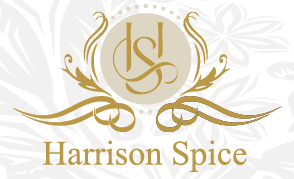
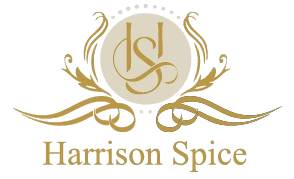
add change

diff --git a/src/pages/HarrisonSpice.jsx b/src/pages/HarrisonSpice.jsx
@@ -38,7 +38,7 @@ const LOCATIONS_DATA = [
   {
     id: 3,
     name: 'Leicester',
-    description: 'Contemporary Indian cuisine in vibrant Leicester',
+    description: 'Contemporary Indian cuisine in vibrant Leicester City Center context.',
     locationName: 'Leicester City Centre',
     image: '/leicester.png',
     phone: '+44 116 XXXX XXXX',
@@ -131,7 +131,7 @@ export default function HarrisonsSpice() {
         {/* Logo Branding */}
         <div className="mb-8 md:mb-12">
           <img 
-            src="https://hebbkx1anhila5yf.public.blob.vercel-storage.com/harrison%20spice%20logo-vr0wOqMnWBwxqWiKZopD1yXO0LsK5o.png" 
+            src="/harrison.png" 
             alt="Harrison's Spice Logo" 
             className="h-24 md:h-32 w-auto drop-shadow-2xl mx-auto"
           />
@@ -149,16 +149,13 @@ export default function HarrisonsSpice() {
 
         {/* Social Connection Badges */}
         <div className="flex items-center justify-center gap-4 md:gap-6 mb-12 px-4">
-          <a href="https://instagram.com/harrisonspice" target="_blank" rel="noopener noreferrer" aria-label="Instagram" className="p-3 md:p-4 rounded-full border border-white/10 bg-white/5 hover:bg-white/20 transition-all">
+          <a href="https://www.instagram.com/harrisonspice.official?igsh=dTA0eTBmdmZ2bDlu&utm_source=qr" target="_blank" rel="noopener noreferrer" aria-label="Instagram" className="p-3 md:p-4 rounded-full border border-white/10 bg-white/5 hover:bg-white/20 transition-all">
             <FaInstagram className="w-5 h-5 text-white" />
           </a>
-          <a href="https://tiktok.com/@harrisonspice" target="_blank" rel="noopener noreferrer" aria-label="TikTok" className="p-3 md:p-4 rounded-full border border-white/10 bg-white/5 hover:bg-white/20 transition-all">
+          <a href="https://www.tiktok.com/@harrisonspiceofficial?_r=1&_t=ZN-93Ql2Nmc3L4" target="_blank" rel="noopener noreferrer" aria-label="TikTok" className="p-3 md:p-4 rounded-full border border-white/10 bg-white/5 hover:bg-white/20 transition-all">
             <FaTiktok className="w-5 h-5 text-white" />
           </a>
-          <a href="https://facebook.com/harrisonspice" target="_blank" rel="noopener noreferrer" aria-label="Facebook" className="p-3 md:p-4 rounded-full border border-white/10 bg-white/5 hover:bg-white/20 transition-all">
-            <FaFacebookF className="w-5 h-5 text-white" />
-          </a>
-          <a href="https://wa.me/441164000000" target="_blank" rel="noopener noreferrer" aria-label="WhatsApp" className="p-3 md:p-4 rounded-full border border-white/10 bg-white/5 hover:bg-white/20 transition-all">
+          <a href="https://wa.me/447368384136" target="_blank" rel="noopener noreferrer" aria-label="WhatsApp" className="p-3 md:p-4 rounded-full border border-white/10 bg-white/5 hover:bg-white/20 transition-all">
             <FaWhatsapp className="w-5 h-5 text-white" />
           </a>
         </div>
@@ -175,7 +172,7 @@ export default function HarrisonsSpice() {
               <div 
                 ref={scrollContainerRef}
                 onScroll={handleScroll}
-                className="flex overflow-x-auto scroll-smooth gap-6 pb-4 no-scrollbar snap-x snap-mandatory" 
+                className="flex overflow-x-auto scroll-smooth gap-6 pb-4 no-scrollbar snap-x snap-mandatory items-stretch" 
                 style={{ scrollBehavior: 'smooth', WebkitOverflowScrolling: 'touch' }}
               >
                 {LOCATIONS_DATA.map((location, index) => (
@@ -184,10 +181,10 @@ export default function HarrisonsSpice() {
                     ref={(el) => {
                       cardRefs.current[index] = el;
                     }}
-                    className="flex-shrink-0 w-full sm:w-96 md:w-[400px] rounded-2xl overflow-hidden bg-[#242424] border border-[#3a3a3a] transition-all duration-300 cursor-pointer group shadow-lg snap-center"
+                    className="flex-shrink-0 w-full sm:w-96 md:w-[400px] rounded-2xl overflow-hidden bg-[#242424] border border-[#3a3a3a] transition-all duration-300 cursor-pointer group shadow-lg snap-center flex flex-col"
                   >
                     {/* Visual Media Section */}
-                    <div className="relative h-48 md:h-56 overflow-hidden p-3 pb-0">
+                    <div className="relative h-48 md:h-56 overflow-hidden p-3 pb-0 flex-shrink-0">
                       <img 
                         alt={location.name} 
                         loading="lazy" 
@@ -198,29 +195,31 @@ export default function HarrisonsSpice() {
                     </div>
 
                     {/* Metadata Information Blocks */}
-                    <div className="p-5 md:p-6">
+                    <div className="p-5 md:p-6 flex flex-col flex-grow">
                       <h3 className="text-lg md:text-xl font-bold text-[#FFD700] mb-2">{location.name}</h3>
                       <p className="text-white/80 text-sm md:text-base mb-4 line-clamp-2">{location.description}</p>
                       
                       <div className="space-y-2.5 mb-5 text-white/90">
                         <div className="flex items-center gap-2.5">
-                          <svg xmlns="http://www.w3.org/2000/svg" width="16" height="16" viewBox="0 0 24 24" fill="none" stroke="currentColor" stroke-width="2" className="text-[#FFD700] flex-shrink-0"><path d="M20 10c0 4.993-5.539 10.193-7.399 11.799a1 1 0 0 1-1.202 0C9.539 20.193 4 14.993 4 10a8 8 0 0 1 16 0"></path><circle cx="12" cy="10" r="3"></circle></svg>
+                          <svg xmlns="http://www.w3.org/2000/svg" width="16" height="16" viewBox="0 0 24 24" fill="none" stroke="currentColor" strokeWidth="2" className="text-[#FFD700] flex-shrink-0"><path d="M20 10c0 4.993-5.539 10.193-7.399 11.799a1 1 0 0 1-1.202 0C9.539 20.193 4 14.993 4 10a8 8 0 0 1 16 0"></path><circle cx="12" cy="10" r="3"></circle></svg>
                           <span className="text-sm">{location.locationName}</span>
                         </div>
                         <div className="flex items-center gap-2.5">
-                          <svg xmlns="http://www.w3.org/2000/svg" width="14" height="14" viewBox="0 0 24 24" fill="none" stroke="currentColor" stroke-width="2" className="text-[#FFD700] flex-shrink-0"><path d="M13.832 16.568a1 1 0 0 0 1.213-.303l.355-.465A2 2 0 0 1 17 15h3a2 2 0 0 1 2 2v3a2 2 0 0 1-2 2A18 18 0 0 1 2 4a2 2 0 0 1 2-2h3a2 2 0 0 1 2 2v3a2 2 0 0 1-.8 1.6l-.468.351a1 1 0 0 0-.292 1.233 14 14 0 0 0 6.392 6.384"></path></svg>
+                          <svg xmlns="http://www.w3.org/2000/svg" width="14" height="14" viewBox="0 0 24 24" fill="none" stroke="currentColor" strokeWidth="2" className="text-[#FFD700] flex-shrink-0"><path d="M13.832 16.568a1 1 0 0 0 1.213-.303l.355-.465A2 2 0 0 1 17 15h3a2 2 0 0 1 2 2v3a2 2 0 0 1-2 2A18 18 0 0 1 2 4a2 2 0 0 1 2-2h3a2 2 0 0 1 2 2v3a2 2 0 0 1-.8 1.6l-.468.351a1 1 0 0 0-.292 1.233 14 14 0 0 0 6.392 6.384"></path></svg>
                           <a href={location.telUrl} className="text-sm hover:text-[#FFD700] transition-colors">{location.phone}</a>
                         </div>
                         <div className="flex items-center gap-2.5">
-                          <svg xmlns="http://www.w3.org/2000/svg" width="14" height="14" viewBox="0 0 24 24" fill="none" stroke="currentColor" stroke-width="2" className="text-[#FFD700] flex-shrink-0"><path d="M2.992 16.342a2 2 0 0 1 .094 1.167l-1.065 3.29a1 1 0 0 0 1.236 1.168l3.413-.998a2 2 0 0 1 1.099.092 10 10 0 1 0-4.777-4.719"></path></svg>
+                          <svg xmlns="http://www.w3.org/2000/svg" width="14" height="14" viewBox="0 0 24 24" fill="none" stroke="currentColor" strokeWidth="2" className="text-[#FFD700] flex-shrink-0"><path d="M2.992 16.342a2 2 0 0 1 .094 1.167l-1.065 3.29a1 1 0 0 0 1.236 1.168l3.413-.998a2 2 0 0 1 1.099.092 10 10 0 1 0-4.777-4.719"></path></svg>
                           <a href={location.whatsappUrl} target="_blank" rel="noopener noreferrer" className="text-sm hover:text-[#FFD700] transition-colors">WhatsApp</a>
                         </div>
                         <div className="flex items-center gap-2.5">
-                          <svg xmlns="http://www.w3.org/2000/svg" width="14" height="14" viewBox="0 0 24 24" fill="none" stroke="currentColor" stroke-width="2" className="text-[#FFD700] flex-shrink-0"><circle cx="12" cy="12" r="10"></circle><path d="M12 2a14.5 14.5 0 0 0 0 20 14.5 14.5 0 0 0 0-20"></path><path d="M2 12h20"></path></svg>
+                          <svg xmlns="http://www.w3.org/2000/svg" width="14" height="14" viewBox="0 0 24 24" fill="none" stroke="currentColor" strokeWidth="2" className="text-[#FFD700] flex-shrink-0"><circle cx="12" cy="12" r="10"></circle><path d="M12 2a14.5 14.5 0 0 0 0 20 14.5 14.5 0 0 0 0-20"></path><path d="M2 12h20"></path></svg>
                           <a href={location.websiteUrl} target="_blank" rel="noopener noreferrer" className="text-sm hover:text-[#FFD700] transition-colors">Visit Website</a>
                         </div>
                       </div>
-                      <button className="w-full py-3 rounded-xl bg-[#E6C200] text-black font-bold hover:bg-[#FFD700] transition-all text-sm md:text-base shadow-md">Get Directions</button>
+                      <button className="w-full mt-auto py-3 rounded-xl bg-[#E6C200] text-black font-bold hover:bg-[#FFD700] transition-all text-sm md:text-base shadow-md">
+                        Get Directions
+                      </button>
                     </div>
                   </div>
                 ))}
